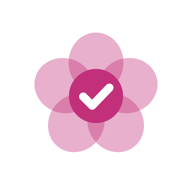
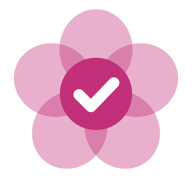
Add files via upload

diff --git a/index.html b/index.html
@@ -12,8 +12,8 @@
 <meta name="theme-color" content="#F4F6F8" media="(prefers-color-scheme: light)">
 <meta name="theme-color" content="#0C131A" media="(prefers-color-scheme: dark)">
 <link rel="manifest" href="manifest.webmanifest">
-<link rel="apple-touch-icon" href="apple-touch-icon.png">
-<link rel="icon" type="image/png" sizes="192x192" href="icon-192.png">
+<link rel="apple-touch-icon" href="apple-touch-icon.png?v=2">
+<link rel="icon" type="image/png" sizes="192x192" href="icon-192.png?v=2">
 <link rel="preconnect" href="https://fonts.googleapis.com">
 <link rel="preconnect" href="https://fonts.gstatic.com" crossorigin>
 <link rel="stylesheet" href="https://fonts.googleapis.com/css2?family=Sora:wght@600;700&family=Manrope:wght@400;500;600;700&display=swap">

diff --git a/sw.js b/sw.js
@@ -1,13 +1,13 @@
 // Bloom offline cache. Network first so new versions arrive right away;
 // the cached copy is used when there is no connection.
-const CACHE = "bloom-v2";
+const CACHE = "bloom-v3";
 const ASSETS = [
   "./",
   "./index.html",
   "./manifest.webmanifest",
-  "./apple-touch-icon.png",
-  "./icon-192.png",
-  "./icon-512.png",
+  "./apple-touch-icon.png?v=2",
+  "./icon-192.png?v=2",
+  "./icon-512.png?v=2",
 ];
 
 self.addEventListener("install", (e) => {
